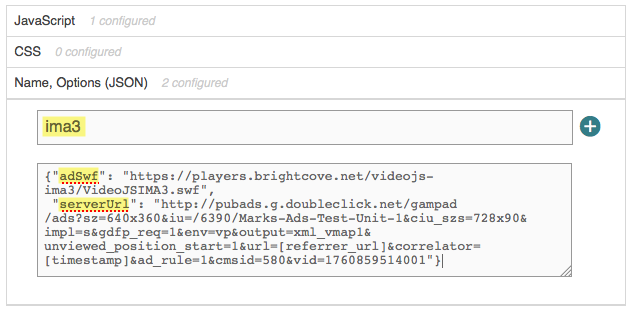
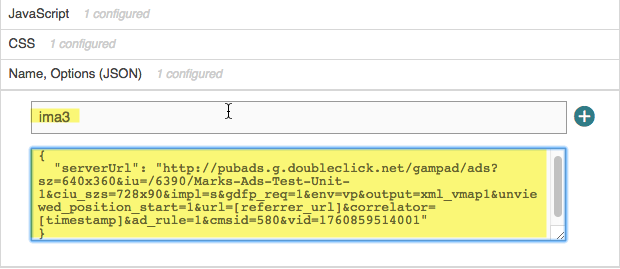
Removed adSwf option as that is for development testing only

diff --git a/en/video-cloud/brightcove-player/guides/ima-plugin.html b/en/video-cloud/brightcove-player/guides/ima-plugin.html
@@ -74,7 +74,7 @@
                     </ul>
                     <p>The plugins are versioned, and the URL given will always contain the latest version. The versioned instances are also available, for instance <code>http://players.brightcove.net/videojs-ima3/1.2.0/videojs.ima3.min.js</code> - most users will not need to worry about versions as you will just want the latest one.</p>
                     <p>The name of the plugin is <code>ima3</code>, and an example set of options is:</p>
-                    <p><code data-gist-id="6edffc8c896381fb71e9" data-gist-hide-footer="true" data-gist-line="1-4"></code></p>
+                    <p><code data-gist-id="6edffc8c896381fb71e9" data-gist-hide-footer="true" data-gist-line="1-5"></code></p>
                     <p>You can associate the plugin with a player, and all child instances of that player, using a curl statement. You can also use the <code>embed_in_page</code> code and associate the plugin with just one instance of a player. Examples of both follow.</p>
 
                     <h3>Associate plugin with all instances of a player</h3>
@@ -87,7 +87,7 @@
                         <p><img src="assets/ima-plugin/ima-javascript.png" alt="ima-javascript" title="ima-javascript"></p>
                         <li><p>Expand the <strong>CSS</strong> section and enter the URL for the plugin's CSS file.</p></li>
                         <p><img src="assets/ima-plugin/ima-css.png" alt="ima-css" title="ima-css"></p>
-                        <li><p>Expand the <strong>Name, Options (JSON)</strong> section. Enter <code>ima3</code> as the plugin name along with the <code>adSwf</code> and <code>serverUrl</code> options.</p></li>
+                        <li><p>Expand the <strong>Name, Options (JSON)</strong> section. Enter <code>ima3</code> as the plugin name along with the <code>serverUrl</code> option.</p></li>
                         <p><img src="assets/ima-plugin/ima-options.png" alt="ima-options" title="ima-options"></p>
                         <li><p>Copy the <strong>iframe Embed Code</strong> for the published player, paste it in your page code and run it in the browser. You should see your ads play along with the main video.</p></li>
                       </ol>
@@ -113,7 +113,7 @@
                           <li>Line 54: Creates a reference to the player.</li>
                           <li>Lines 57-60: Initialize the plugin and pass in custom options.</li>
                       </ul>
-                      <p><code data-gist-id="6edffc8c896381fb71e9" data-gist-hide-footer="true" data-gist-line="38-62"></code></p>
+                      <p><code data-gist-id="6edffc8c896381fb71e9" data-gist-hide-footer="true" data-gist-line="38-60"></code></p>
                     <p>The rest of this document details options and advanced user options for the plugin.</p>
                 </div>
             </div>
